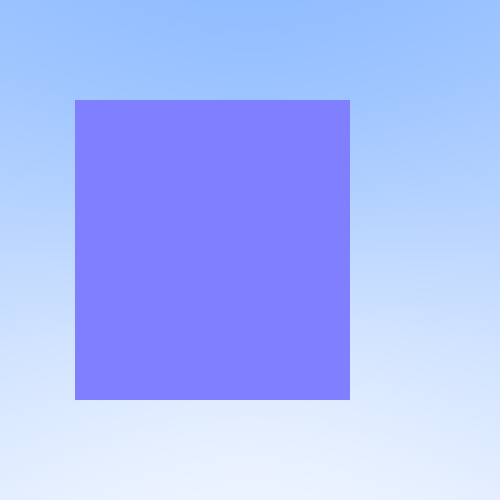
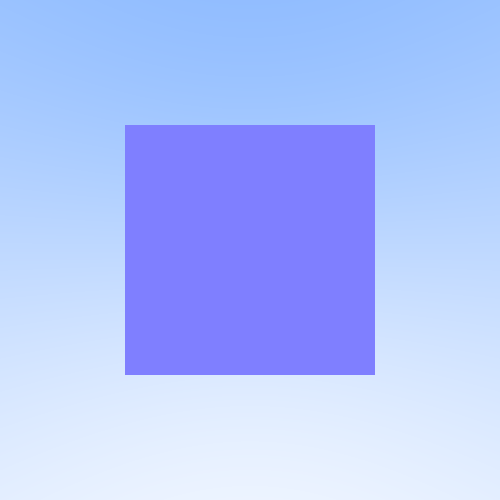
got 5 out of the 6 sides of a cube

Changed region(s): [[0.15, 0.18, 0.75, 0.81]]

diff --git a/src/main.cc b/src/main.cc
@@ -16,12 +16,44 @@ int main() {
     // scene.objects.push_back(std::make_shared<sphere>(point3(0, 0, -1), 0.5));
     // scene.objects.push_back(std::make_shared<sphere>(point3(0, -100.5, -1), 100));
 
-    scene.objects.push_back(std::make_shared<triangle>(point3(-0.7, -0.6, -1), // Bottom left
-                                                       point3(0.4, -0.6, -1), // Bottom Right
-                                                       point3(-0.7, 0.6, -1))); // Top Left
-    scene.objects.push_back(std::make_shared<triangle>(point3(0.4, 0.6, -1), // Top Right
-                                                       point3(-0.7, 0.6, -1), // Top Left
-                                                       point3(0.4, -0.6, -1))); // Bottom Right
+    // Front Face
+    scene.objects.push_back(std::make_shared<triangle>(point3(-0.5, -0.5, -1), // Bottom left
+                                                       point3(0.5, -0.5, -1), // Bottom Right
+                                                       point3(-0.5, 0.5, -1))); // Top Left
+    scene.objects.push_back(std::make_shared<triangle>(point3(0.5, 0.5, -1), // Top Right
+                                                       point3(-0.5, 0.5, -1), // Top Left
+                                                       point3(0.5, -0.5, -1))); // Bottom Right
+    // Back Face
+    scene.objects.push_back(std::make_shared<triangle>(point3(-0.5, -0.5, -2), // Bottom left
+                                                       point3(0.5, -0.5, -2), // Bottom Right
+                                                       point3(-0.5, 0.5, -2))); // Top Left
+    scene.objects.push_back(std::make_shared<triangle>(point3(0.5, 0.5, -2), // Top Right
+                                                       point3(-0.5, 0.5, -2), // Top Left
+                                                       point3(0.5, -0.5, -2))); // Bottom Right
+
+
+    // Bottom Face
+    scene.objects.push_back(std::make_shared<triangle>(point3(-0.5, -0.5, -1), // Bottom left
+                                                       point3(0.5, -0.5, -2), // Bottom Right
+                                                       point3(-0.5, -0.5, -1))); // Top Left
+    scene.objects.push_back(std::make_shared<triangle>(point3(0.5, -0.5, -1), // Top Right
+                                                       point3(-0.5, -0.5, -2), // Top Left
+                                                       point3(0.5, -0.5, -1))); // Bottom Right
+    // Top Face
+    scene.objects.push_back(std::make_shared<triangle>(point3(-0.5, 0.5, -1), // Bottom left
+                                                       point3(0.5, 0.5, -2), // Bottom Right
+                                                       point3(-0.5, 0.5, -1))); // Top Left
+    scene.objects.push_back(std::make_shared<triangle>(point3(0.5, -.5, -1), // Top Right
+                                                       point3(-0.5, 0.5, -2), // Top Left
+                                                       point3(0.5, 0.5, -1))); // Bottom Right
+    
+    // Right Face
+    scene.objects.push_back(std::make_shared<triangle>(point3(0.5, -0.5, -1), // Bottom left
+                                                       point3(0.5, -0.5, -2), // Bottom Right
+                                                       point3(0.5, 0.5, -1))); // Top Left
+    scene.objects.push_back(std::make_shared<triangle>(point3(0.5, 0.5, -2), // Top Right
+                                                       point3(0.5, 0.5, -1), // Top Left
+                                                       point3(0.5, -0.5, -2))); // Bottom Right        
 
     cam.render(scene, "scene.png");
 }

diff --git a/src/camera.h b/src/camera.h
@@ -35,6 +35,7 @@ class camera{
         framebuffer.exportAsPNG(filename);
     }
 
+
     private:
     point3 camera_center = point3(0, 0, 0);
     vec3 pixel_delta_u, pixel_delta_v, pixel00_loc;
